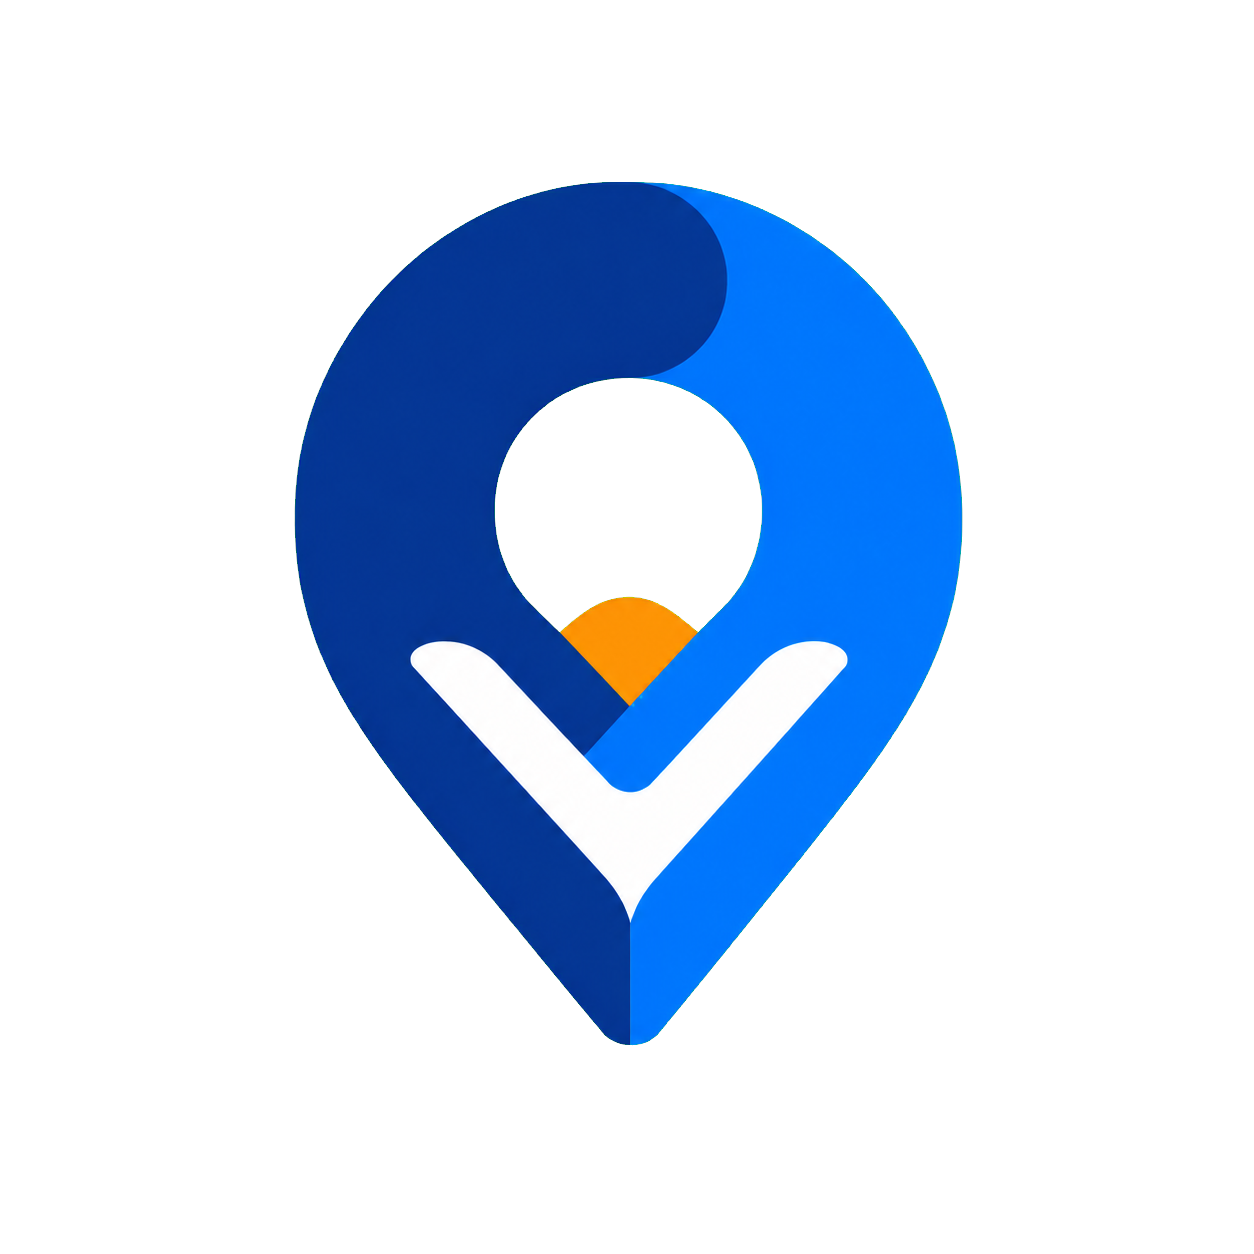
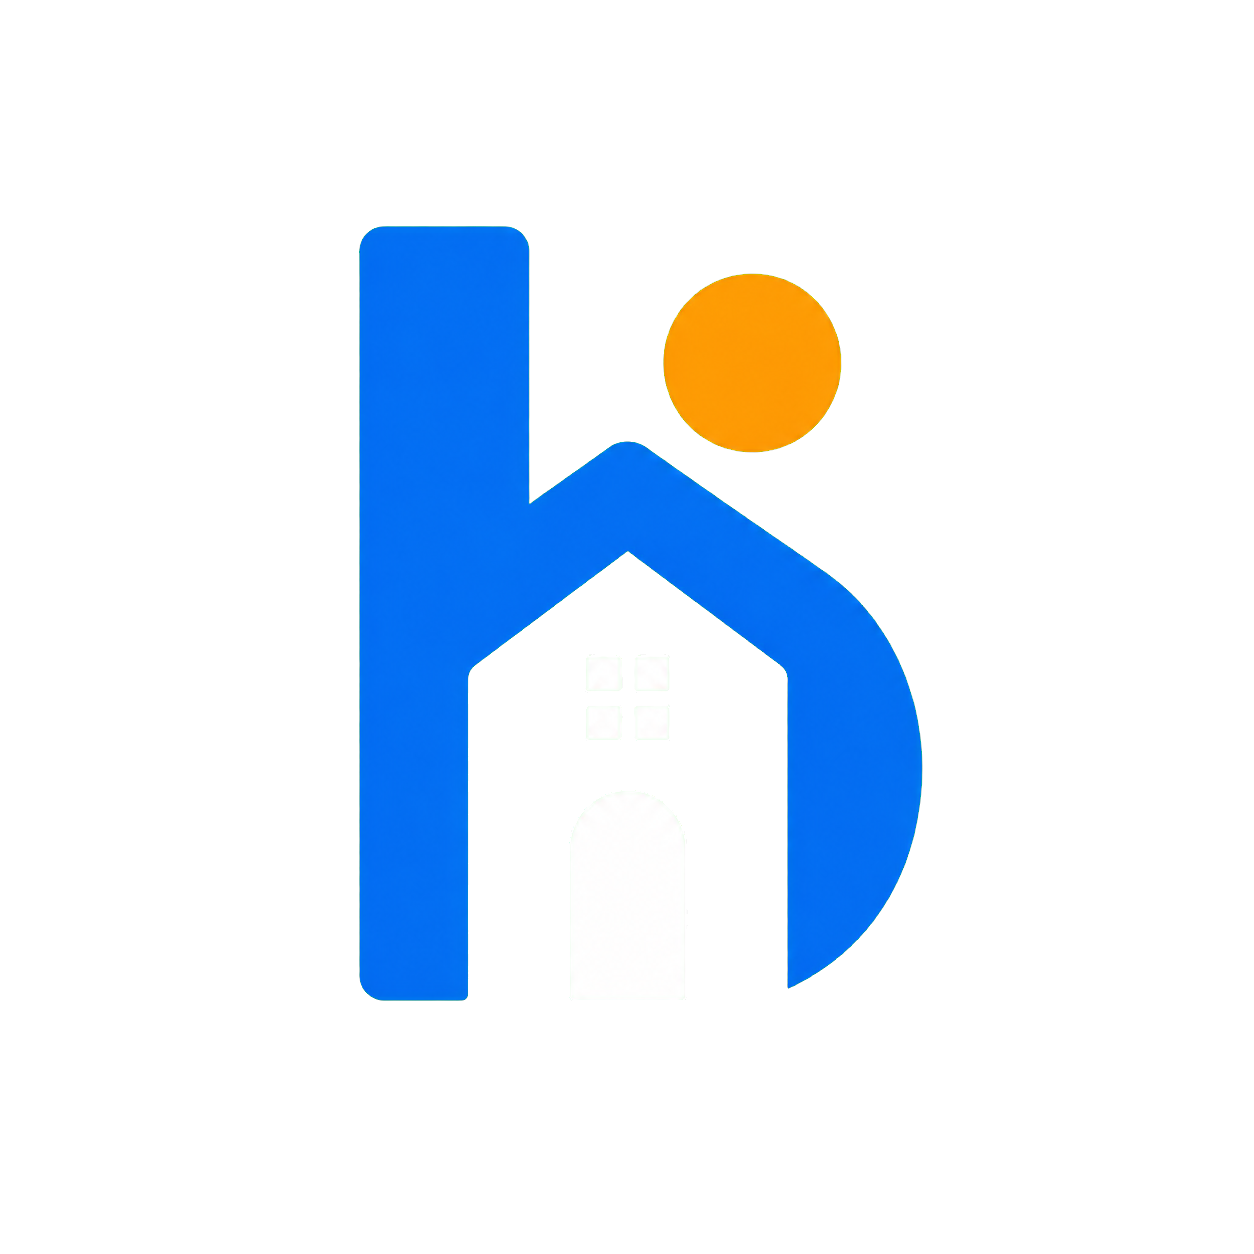
feat: enable homologation payments and device alerts

Changed region(s): [[0.2177, 0.1244, 0.7775, 0.8397]]

diff --git a/src/components/bicoja/BrowserNotifications.tsx b/src/components/bicoja/BrowserNotifications.tsx
@@ -1,0 +1,34 @@
+import { useEffect } from "react";
+import { useQueryClient } from "@tanstack/react-query";
+import { supabase } from "@/lib/supabase";
+import { useSession } from "@/lib/session-context";
+
+type IncomingNotification = { title: string; body: string | null; link: string | null };
+
+/** Entrega alertas nativos quando o navegador ou PWA estiver em execucao. */
+export function BrowserNotifications() {
+  const { session } = useSession();
+  const queryClient = useQueryClient();
+
+  useEffect(() => {
+    const userId = session?.user.id;
+    if (!userId) return;
+    const channel = supabase
+      .channel(`browser-notifications-${userId}`)
+      .on("postgres_changes", { event: "INSERT", schema: "public", table: "notifications", filter: `profile_id=eq.${userId}` }, async (payload) => {
+        queryClient.invalidateQueries({ queryKey: ["notifications", userId] });
+        queryClient.invalidateQueries({ queryKey: ["notifications-unread", userId] });
+        if (!("Notification" in window) || Notification.permission !== "granted") return;
+        const notification = payload.new as IncomingNotification;
+        const registration = await navigator.serviceWorker?.ready;
+        await registration?.showNotification(notification.title || "BICOJA", {
+          body: notification.body || "Voce recebeu uma atualizacao.", icon: "/bicoja-mark.png", badge: "/bicoja-mark.png",
+          data: { link: notification.link || "/notifications" },
+        });
+      })
+      .subscribe();
+    return () => { supabase.removeChannel(channel); };
+  }, [queryClient, session?.user.id]);
+
+  return null;
+}

diff --git a/public/sw.js b/public/sw.js
@@ -1,8 +1,21 @@
-const CACHE = "bicoja-static-v2";
+const CACHE = "bicoja-static-v3";
 const ASSETS = ["/", "/manifest.webmanifest", "/bicoja-mark.png"];
 self.addEventListener("install", (event) => event.waitUntil(caches.open(CACHE).then((cache) => cache.addAll(ASSETS))));
 self.addEventListener("activate", (event) => event.waitUntil(self.clients.claim()));
 self.addEventListener("fetch", (event) => {
   if (event.request.method !== "GET" || event.request.mode === "navigate") return;
   event.respondWith(caches.match(event.request).then((cached) => cached || fetch(event.request)));
+});
+self.addEventListener("push", (event) => {
+  const payload = event.data?.json?.() || {};
+  event.waitUntil(self.registration.showNotification(payload.title || "BICOJA", {
+    body: payload.body || "Voce recebeu uma atualizacao.",
+    icon: "/bicoja-mark.png",
+    badge: "/bicoja-mark.png",
+    data: { link: payload.link || "/notifications" },
+  }));
+});
+self.addEventListener("notificationclick", (event) => {
+  event.notification.close();
+  event.waitUntil(clients.openWindow(event.notification.data?.link || "/notifications"));
 });

diff --git a/src/routes/notifications.tsx b/src/routes/notifications.tsx
@@ -1,5 +1,6 @@
 import { createFileRoute } from "@tanstack/react-router";
-import { Bell, Inbox } from "lucide-react";
+import { Bell, BellRing, Inbox } from "lucide-react";
+import { useEffect, useState } from "react";
 import { PhoneFrame } from "@/components/bicoja/PhoneFrame";
 import { AppHeader } from "@/components/bicoja/AppHeader";
 import { useSession } from "@/lib/session-context";
@@ -24,6 +25,16 @@ function NotificationsPage() {
   const { session } = useSession();
   const { data: notifications = [] } = useNotifications(session?.user.id);
   const markRead = useMarkNotificationRead();
+  const [permission, setPermission] = useState<NotificationPermission | "unsupported">("unsupported");
+
+  useEffect(() => {
+    if ("Notification" in window) setPermission(Notification.permission);
+  }, []);
+
+  async function enableBrowserNotifications() {
+    if (!("Notification" in window)) return;
+    setPermission(await Notification.requestPermission());
+  }
 
   async function open(n: Notification) {
     if (!n.read) await markRead(n.id, session?.user.id);
@@ -34,6 +45,8 @@ function NotificationsPage() {
     <PhoneFrame>
       <AppHeader title="Notificações" back="/home" />
       <div className="flex-1 overflow-y-auto px-4 py-4 space-y-2">
+        {permission === "default" && <button onClick={enableBrowserNotifications} className="w-full flex items-center gap-3 rounded-2xl border border-primary/20 bg-primary/5 p-4 text-left"><BellRing className="h-5 w-5 text-primary" /><span><span className="block text-sm font-semibold">Ativar notificacoes no dispositivo</span><span className="block text-xs text-muted-foreground mt-0.5">Receba alertas no navegador e no app instalado.</span></span></button>}
+        {permission === "denied" && <div className="rounded-2xl border border-border bg-card p-4 text-xs text-muted-foreground">As notificacoes estao bloqueadas neste dispositivo. Ative-as nas permissoes do navegador para receber alertas.</div>}
         {notifications.length === 0 && (
           <div className="flex flex-col items-center text-center py-16 text-muted-foreground">
             <Inbox className="h-10 w-10 mb-3 opacity-50" />

diff --git a/src/routes/payment.tsx b/src/routes/payment.tsx
@@ -46,6 +46,13 @@ type PaymentSettings = {
   card_enabled: boolean;
 };
 
+const HOMOLOGATION_SETTINGS: PaymentSettings = {
+  payment_mode: "homologacao",
+  payment_gateway: "mercado_pago",
+  pix_enabled: true,
+  card_enabled: true,
+};
+
 function usePaymentSettings() {
   return useQuery({
     queryKey: ["payment-settings"],
@@ -55,8 +62,10 @@ function usePaymentSettings() {
         .select("payment_mode, payment_gateway, pix_enabled, card_enabled")
         .eq("id", true)
         .single();
+      // Mantem os testes funcionais enquanto o banco recebe a migration.
+      if (error?.code === "42703") return HOMOLOGATION_SETTINGS;
       if (error) throw error;
-      return data as PaymentSettings;
+      return (data as PaymentSettings) ?? HOMOLOGATION_SETTINGS;
     },
   });
 }
@@ -72,7 +81,7 @@ function Payment() {
   async function pay() {
     if (!orderId) return;
     setPaying(true);
-    if (settings?.payment_mode === "homologacao") {
+    if ((settings ?? HOMOLOGATION_SETTINGS).payment_mode === "homologacao") {
       const { error } = await supabase.rpc("confirm_order_payment", { p_order_id: orderId });
       setPaying(false);
       if (error) {

diff --git a/src/routes/__root.tsx b/src/routes/__root.tsx
@@ -16,6 +16,7 @@ import { reportLovableError } from "../lib/lovable-error-reporting";
 import { SessionProvider, useSession } from "../lib/session-context";
 import { supabase } from "../lib/supabase";
 import { Toaster } from "../components/ui/sonner";
+import { BrowserNotifications } from "../components/bicoja/BrowserNotifications";
 
 const PUBLIC_PATHS = new Set(["/", "/login"]);
 
@@ -181,6 +182,7 @@ function RootComponent() {
     <QueryClientProvider client={queryClient}>
       <SessionProvider>
         <AuthGate>
+          <BrowserNotifications />
           {/* Required: nested routes render here. Removing <Outlet /> breaks all child routes. */}
           <Outlet />
         </AuthGate>